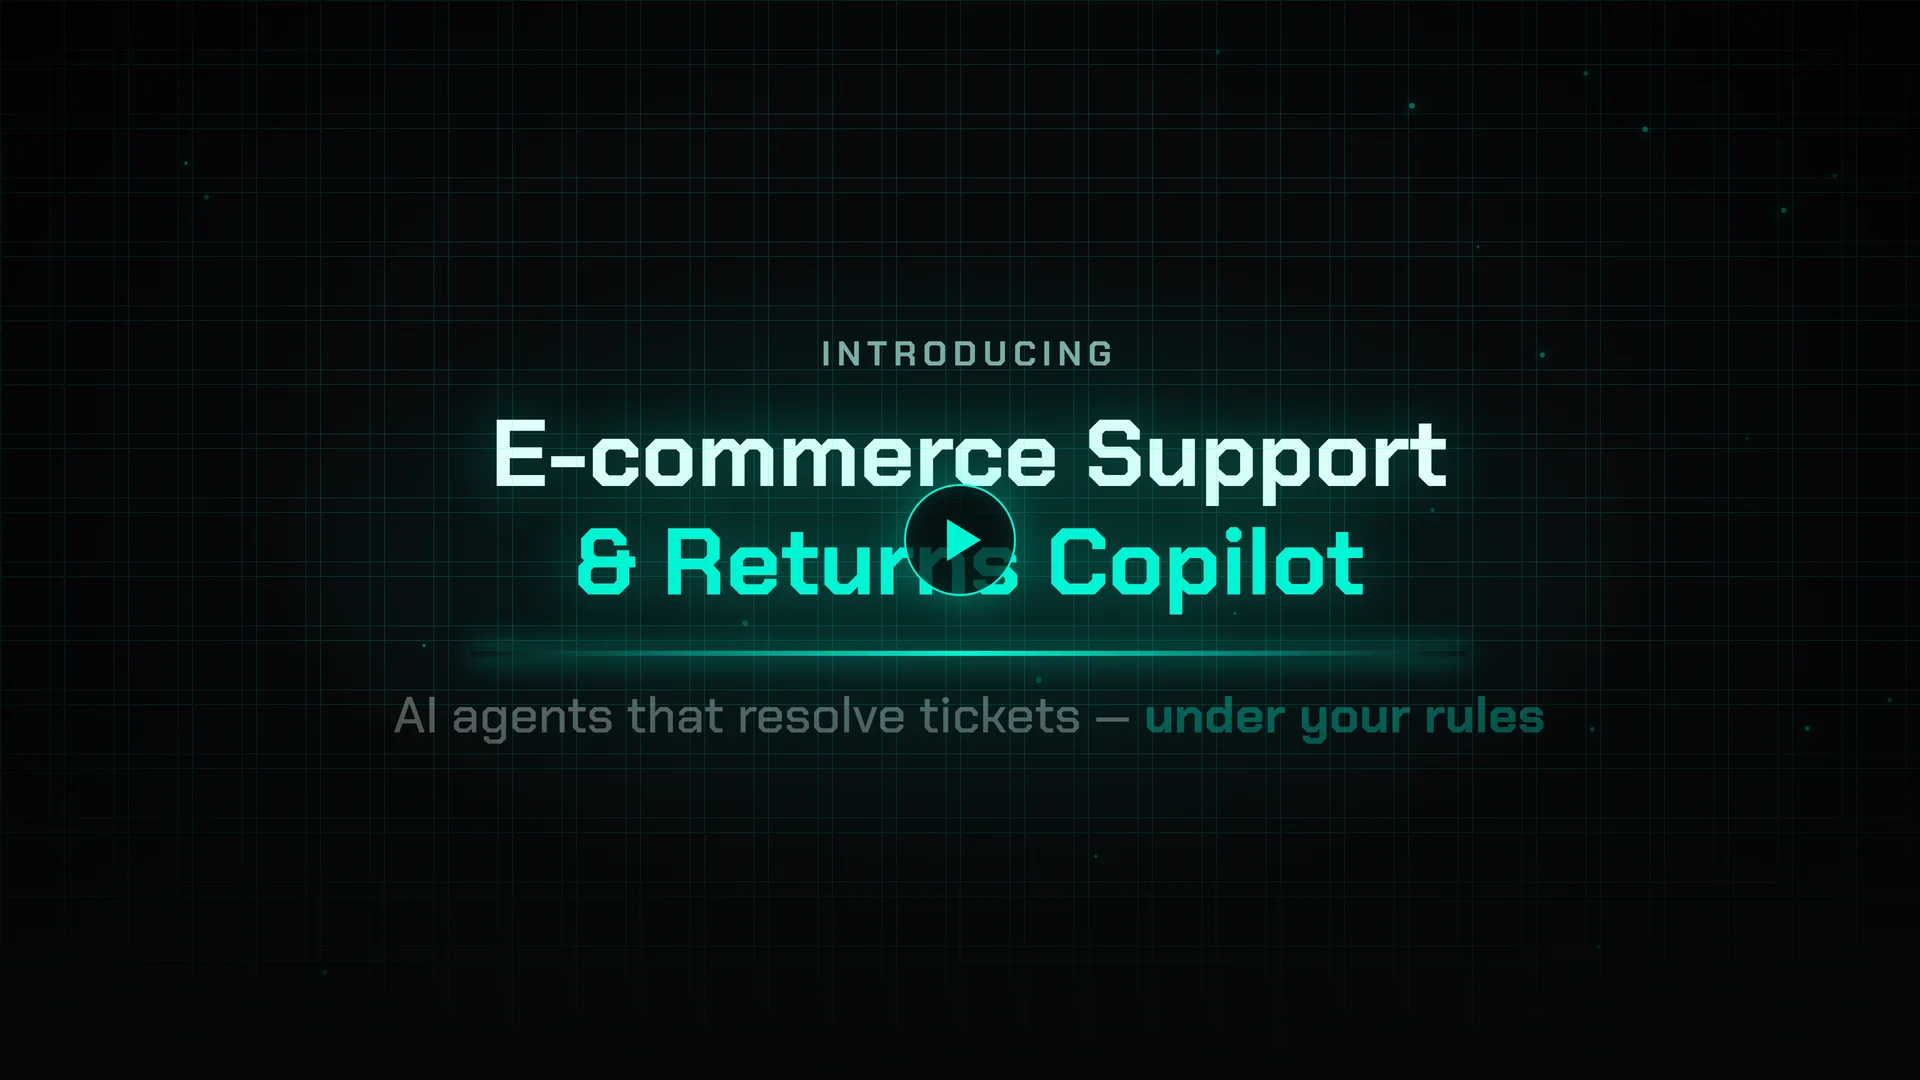
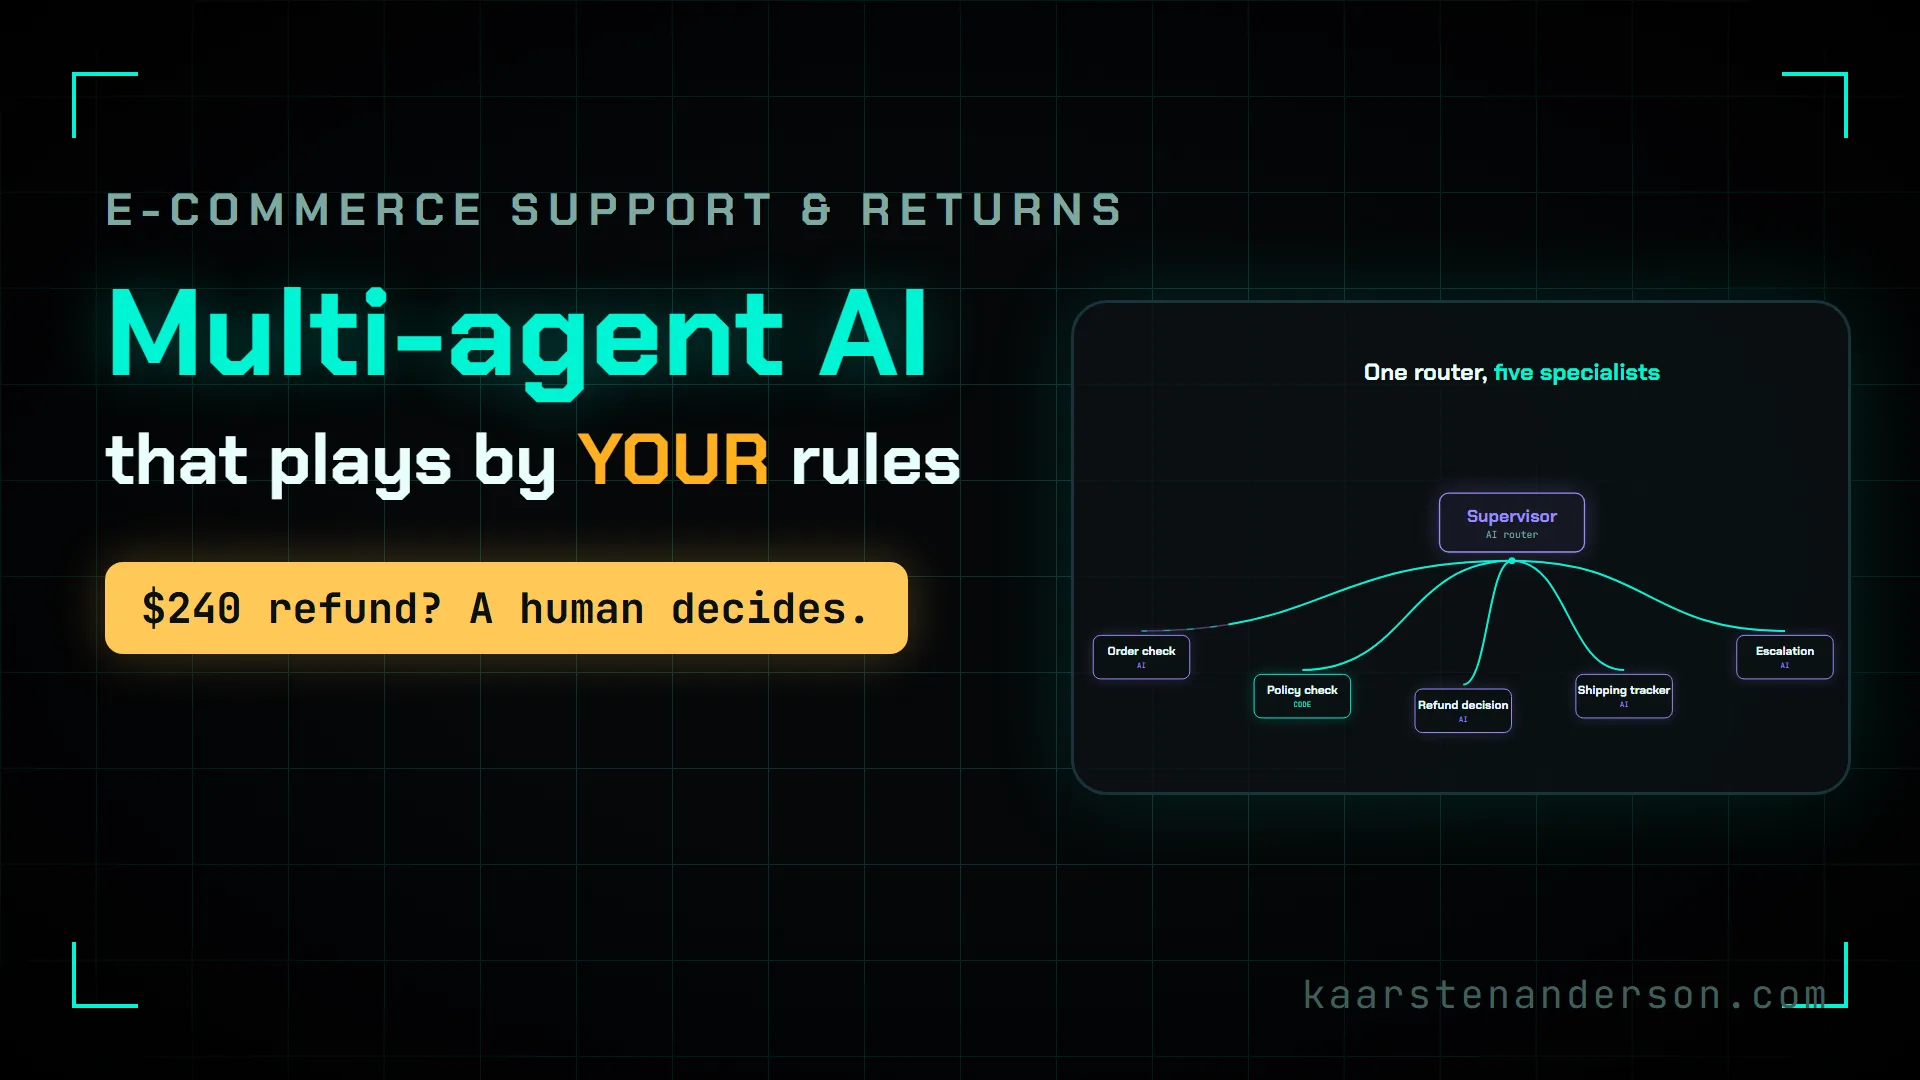
feat: embed the e-commerce support and returns copilot film

diff --git a/src/content/projects.test.ts b/src/content/projects.test.ts
@@ -66,6 +66,7 @@ describe('project registry', () => {
   });
 
   it('embeds the published films', () => {
+    expect(getProject('ecommerce-support-returns-copilot')?.video?.youtubeId).toBe('Btnuw-aMXtA');
     expect(getProject('langgraph-multiagent-orchestrator')?.video?.youtubeId).toBe('4rsN0tXLVS4');
     expect(getProject('mcp-agent-toolkit-py')?.video?.youtubeId).toBe('3UZH518sOVg');
     expect(getProject('agentic-rag-system')?.video?.youtubeId).toBe('EWf5Oz8u7Xg');

diff --git a/src/content/projects/ecommerce-support-returns-copilot.ts b/src/content/projects/ecommerce-support-returns-copilot.ts
@@ -40,7 +40,7 @@ export const project: Project = {
   },
   ogImage: `${dir}/og.png`,
   video: {
-    youtubeId: null,
+    youtubeId: 'Btnuw-aMXtA',
     poster: {
       src: `${dir}/video-poster-1920.webp`,
       alt: 'Watch the E-commerce Support & Returns Copilot film',
